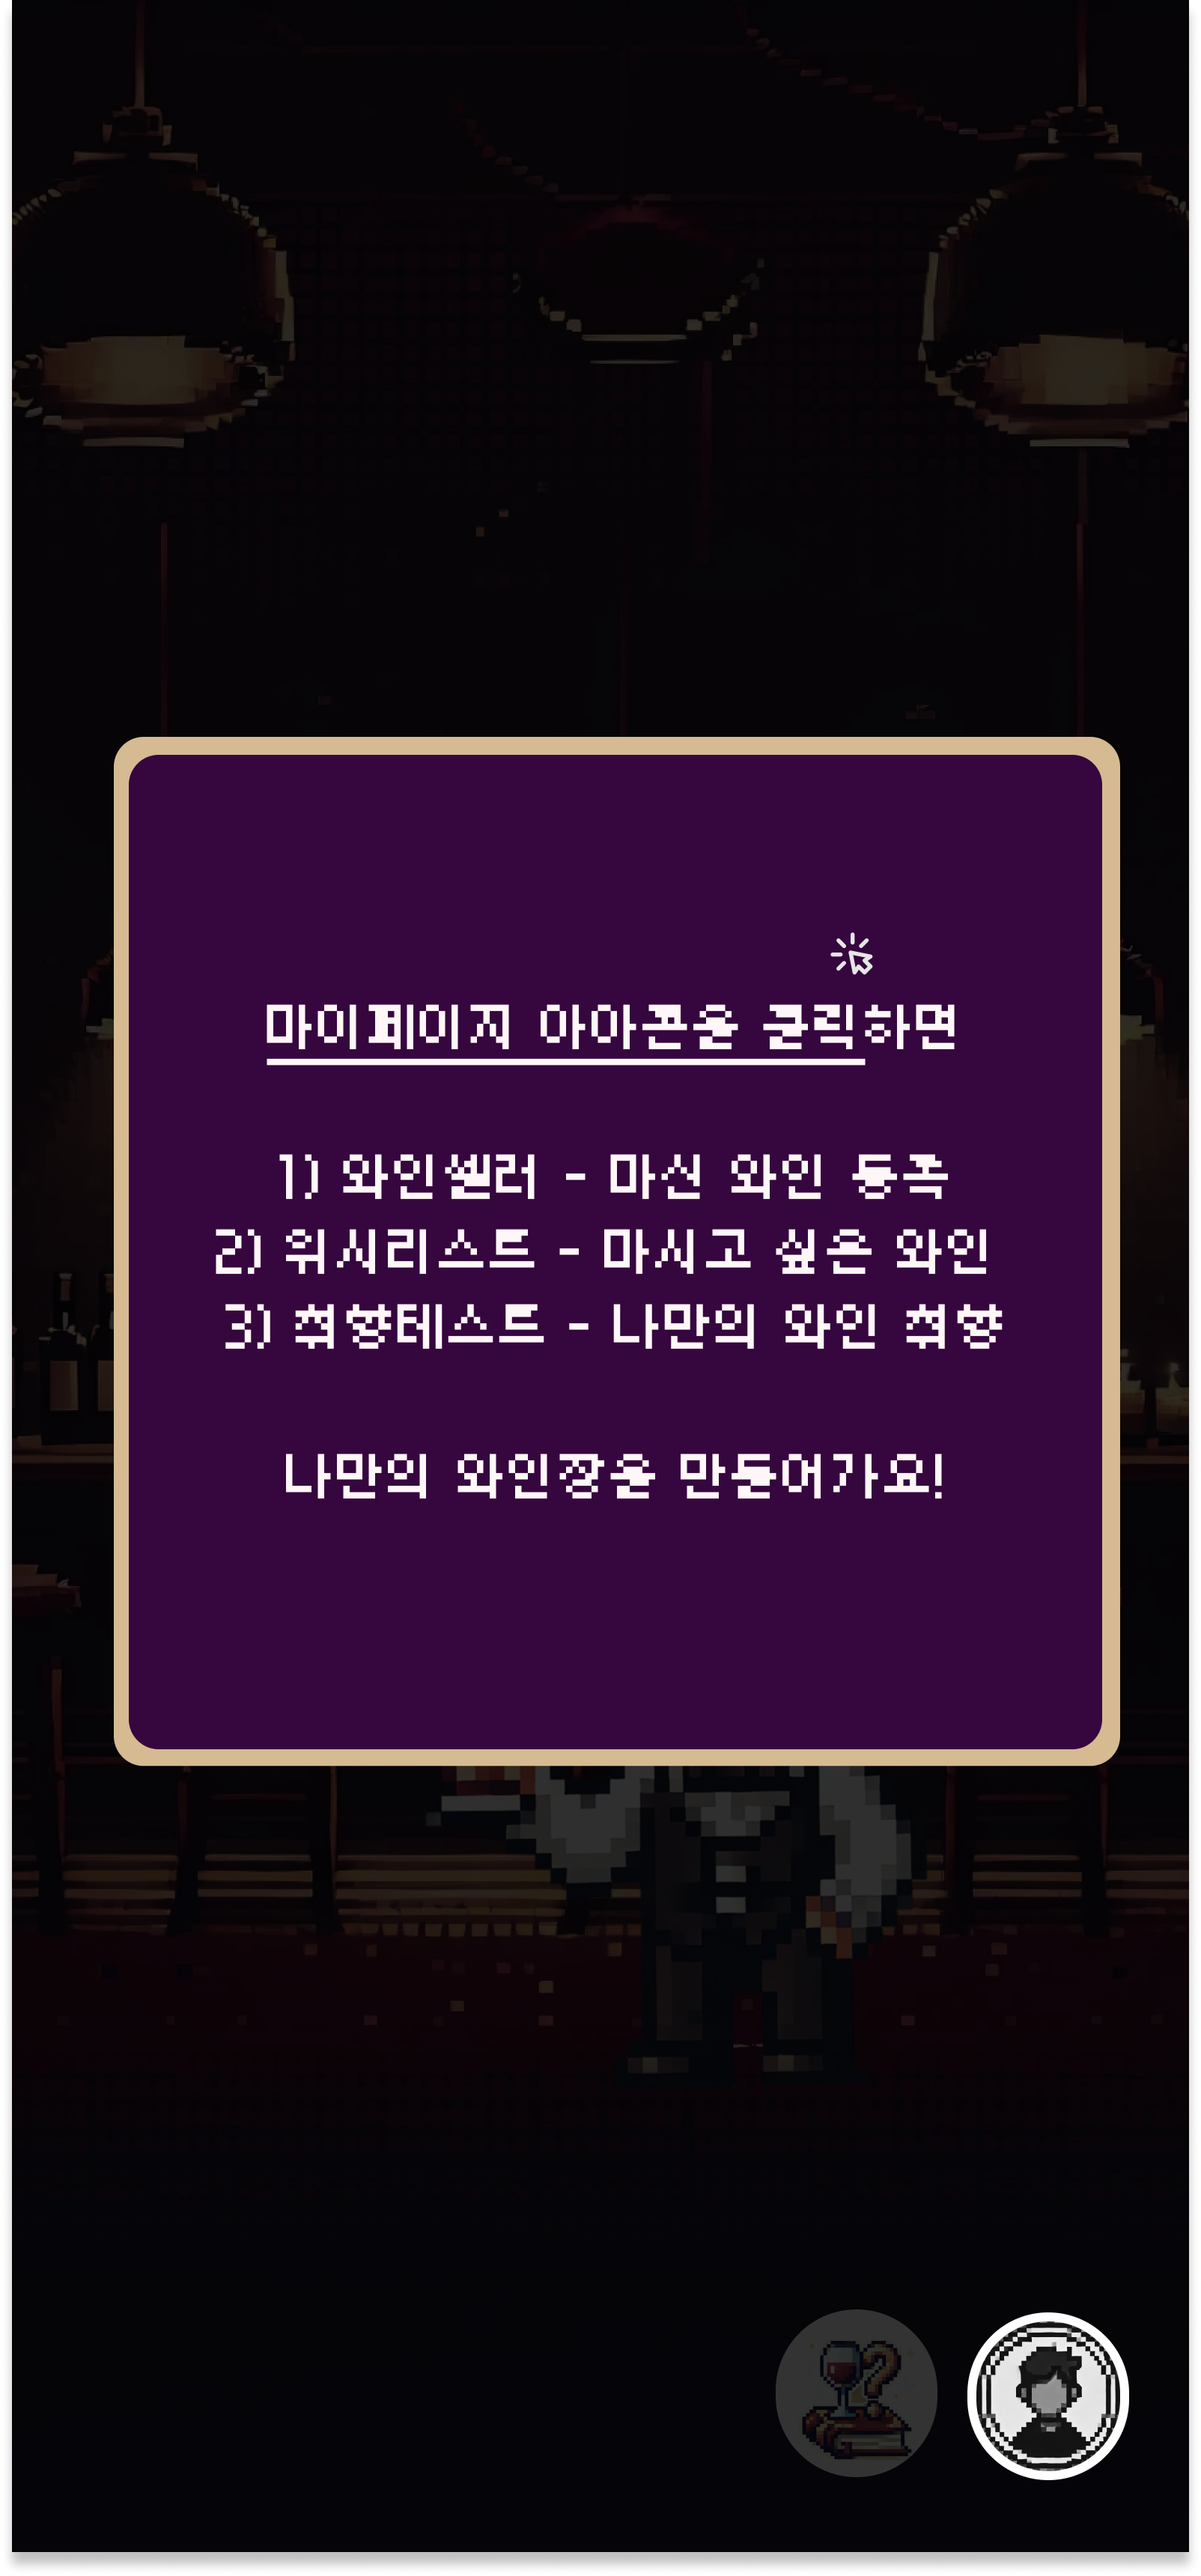
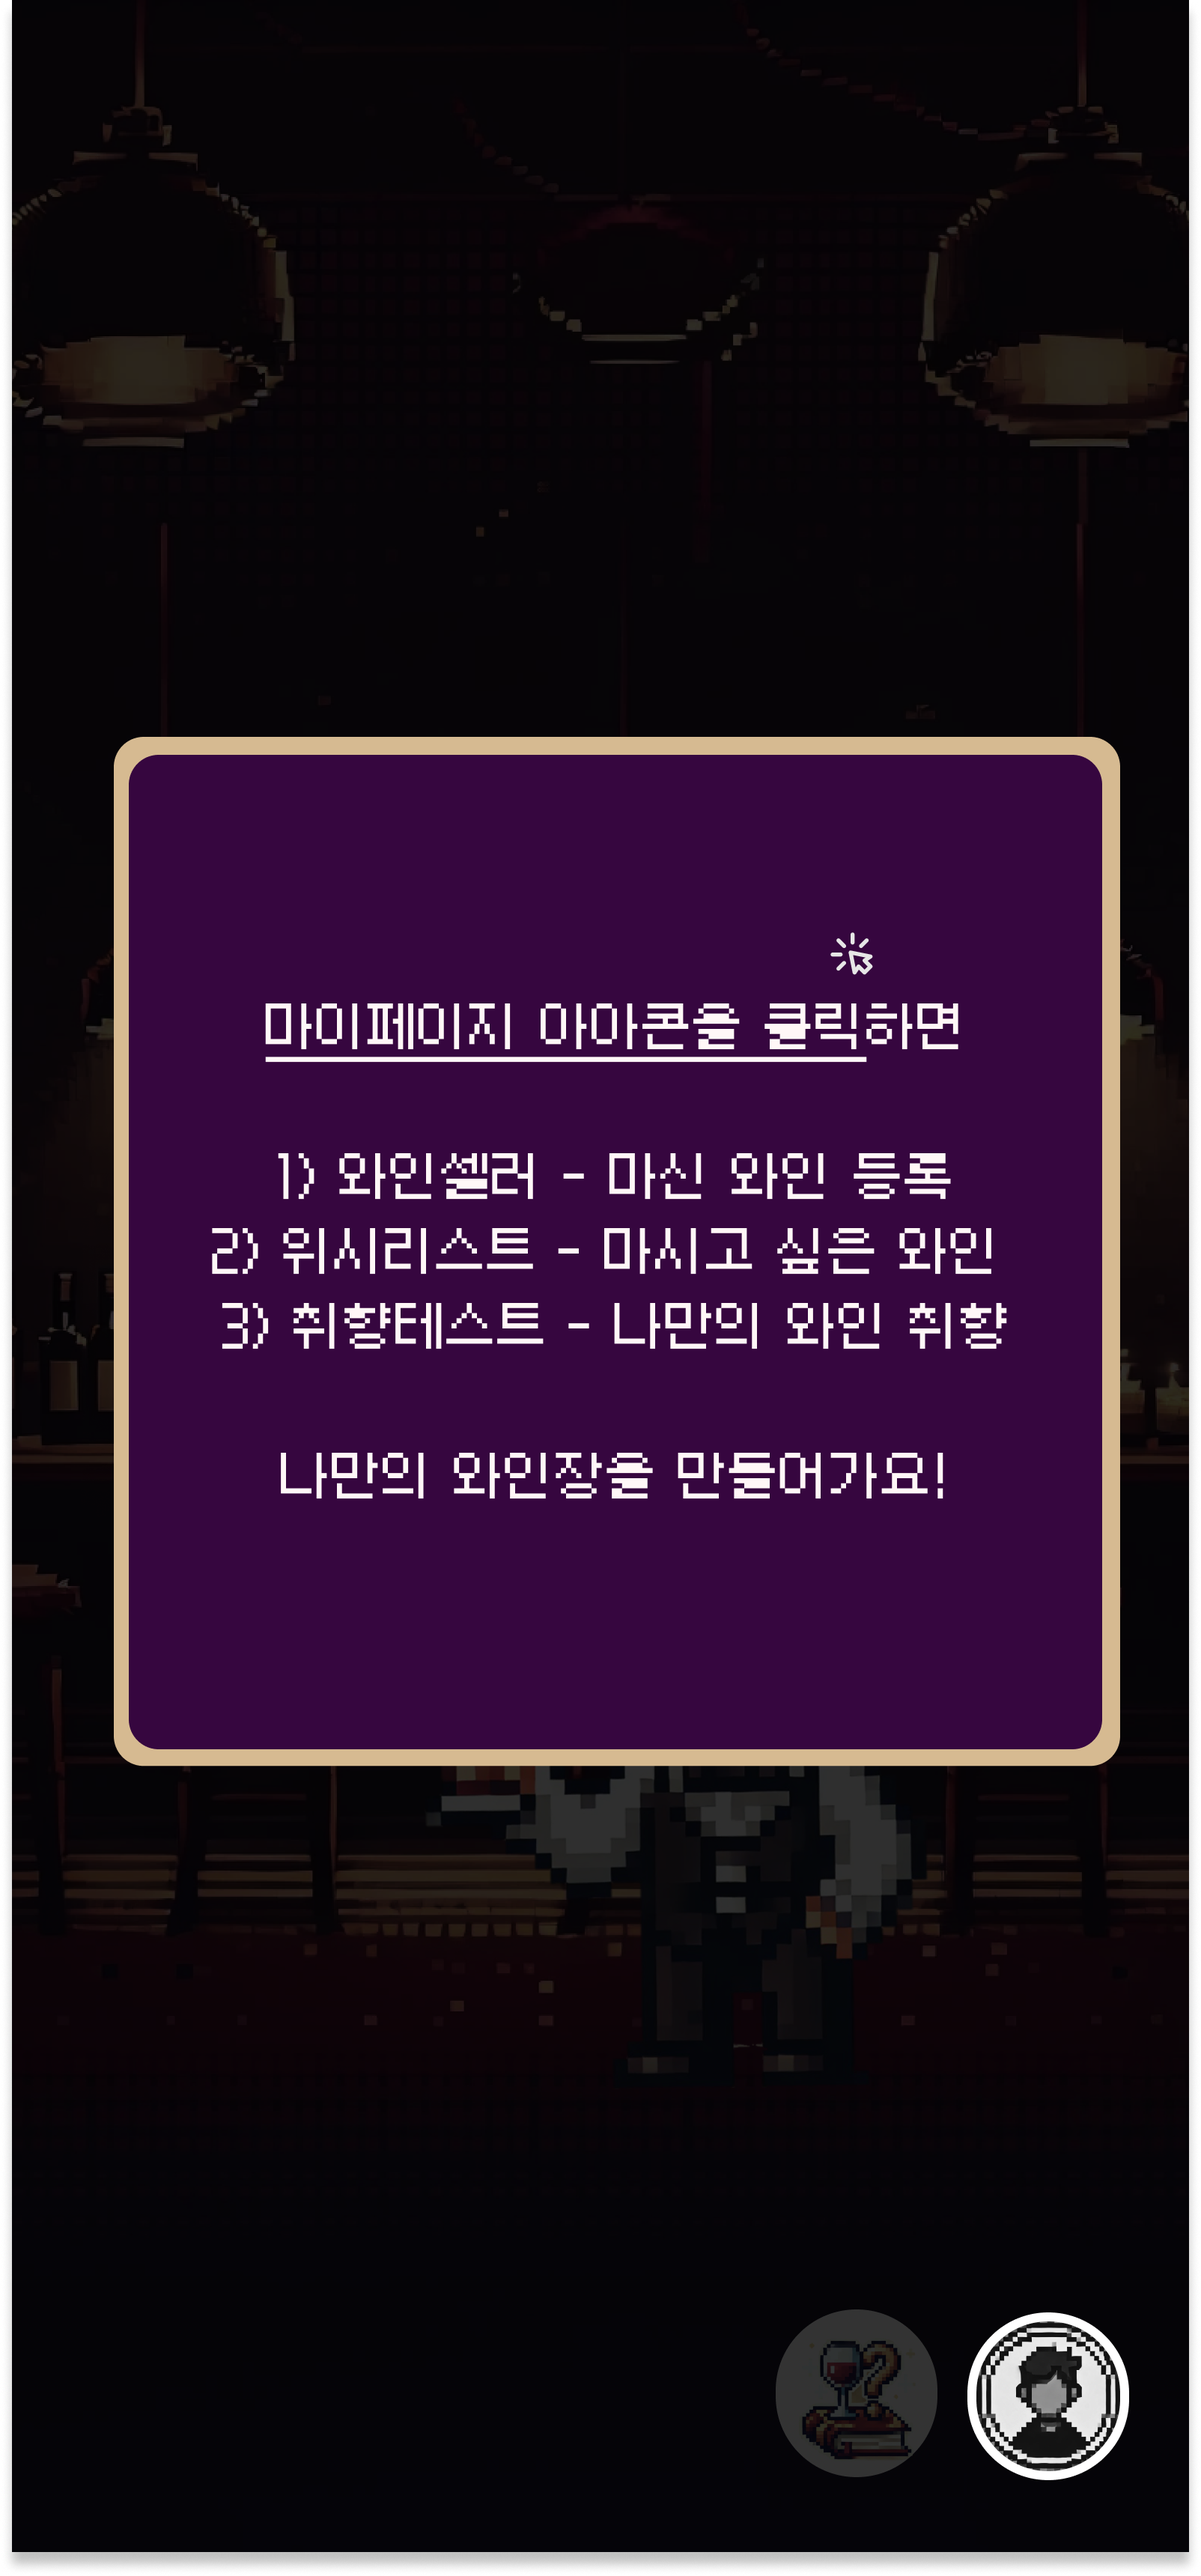
[S12P21B202-211] feat: 자동 튜토리올 개선

diff --git a/frontend/winedining/src/pages/Home.tsx b/frontend/winedining/src/pages/Home.tsx
@@ -15,7 +15,7 @@ import quest from "../assets/icons/questicon.png";
 import PixelButton from "../components/PixelButton";
 
 import p1 from "../assets/tutorial/p1.png";
-import p2 from "../assets/tutorial/p2.png";
+import p2 from "../assets/tutorial/p3.png";
 import p3 from "../assets/tutorial/p3.png";
 import p4 from "../assets/tutorial/p4.png";
 import p5 from "../assets/tutorial/p5.png";
@@ -137,6 +137,9 @@ function Home() {
         <div style={modalOverlay}>
           <div style={modalContent}>
             <p style={{ marginBottom: "12px" }}>
+              <p style={{ fontSize: "2vh", marginTop: "12px", color: "#d4b27a" }}>
+                <span style={{ color: "#9A001A" }}>{countdown}</span>초 후 테스트로 이동합니다...
+              </p>
               <span style={{ textDecoration: "underline" }}>
                 <strong>{user.nickname}</strong>
               </span>
@@ -145,9 +148,6 @@ function Home() {
             </p>
             <p>간단한 질문에 답해주시면</p>
             <p>더 잘 맞는 와인을 추천해드릴게요 🍷</p>
-            <p style={{ fontSize: "2vh", marginTop: "12px", color: "#d4b27a" }}>
-              <span style={{ color: "#9A001A" }}>{countdown}</span>초 후 테스트로 이동합니다...
-            </p>
           </div>
         </div>
       )}
@@ -294,7 +294,7 @@ const modalContent: React.CSSProperties = {
   borderRadius: "12px",
   textAlign: "center",
   color: "white",
-  fontSize: "16px",
+  fontSize: "14px",
   lineHeight: "1.6",
 };
 
